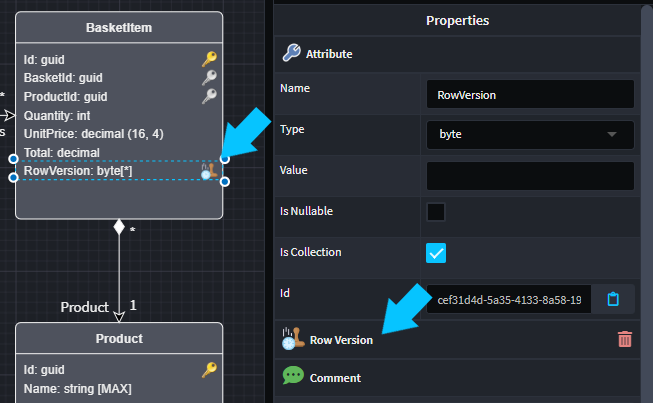
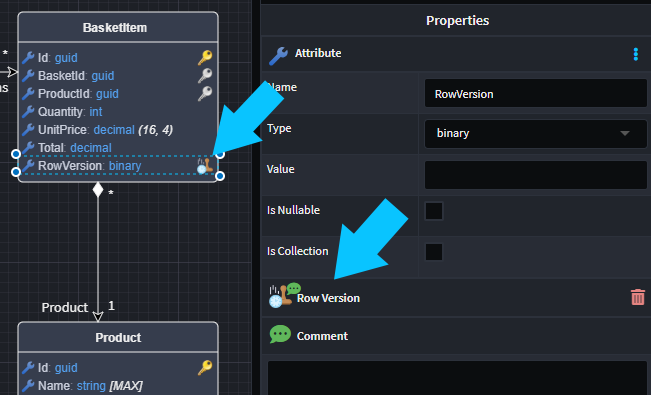
Should be `binary` to render as `byte[]` in C#.

diff --git a/Modules/Intent.Modules.EntityFrameworkCore/docs/README.md b/Modules/Intent.Modules.EntityFrameworkCore/docs/README.md
@@ -121,7 +121,7 @@ Please see the [RDBMS README](https://docs.intentarchitect.com/articles/modules-
 
 ### Row Version - Attribute stereotype
 
-The `Row Version` stereotype when applied to a byte[] `Attribute`, denotes that it should map to a database type that provides automatic row-versioning, such as the SQL Server `rowversion` type.
+The `Row Version` stereotype when applied to a `binary` `Attribute`, denotes that it should map to a database type that provides automatic row-versioning, such as the SQL Server `rowversion` type.
 
 The `Row Version` stereotype can be manually applied. This stereotype is visualized by the time stamp icon.
 
